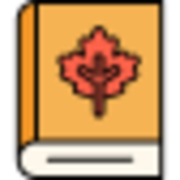
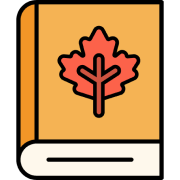
FE/아이콘 수정

diff --git a/frontend-main/index.html b/frontend-main/index.html
@@ -1,8 +1,10 @@
 <!doctype html>
 <html lang="en">
   <head>
-    <meta charset="UTF-8" />
+    <meta name="apple-mobile-web-app-capable" content="yes" />
     <link rel="icon" href="/favicon.ico" />
+    <link rel="apple-touch-icon" sizes="192x192" href="/pwa-192x192.png" />
+    <link rel="apple-touch-icon" sizes="512x512" href="/pwa-512x512.png" />
     <link
       rel="apple-touch-icon"
       href="/apple-touch-icon-180x180.png"

diff --git a/frontend-main/vite.config.ts b/frontend-main/vite.config.ts
@@ -37,6 +37,11 @@ export default defineConfig({
             type: "image/png",
           },
           {
+            src: "/pwa-512x512.png",
+            sizes: "512x512",
+            type: "image/png",
+          },
+          {
             src: "/pwa-310x310.png",
             sizes: "310x310",
             type: "image/png",
